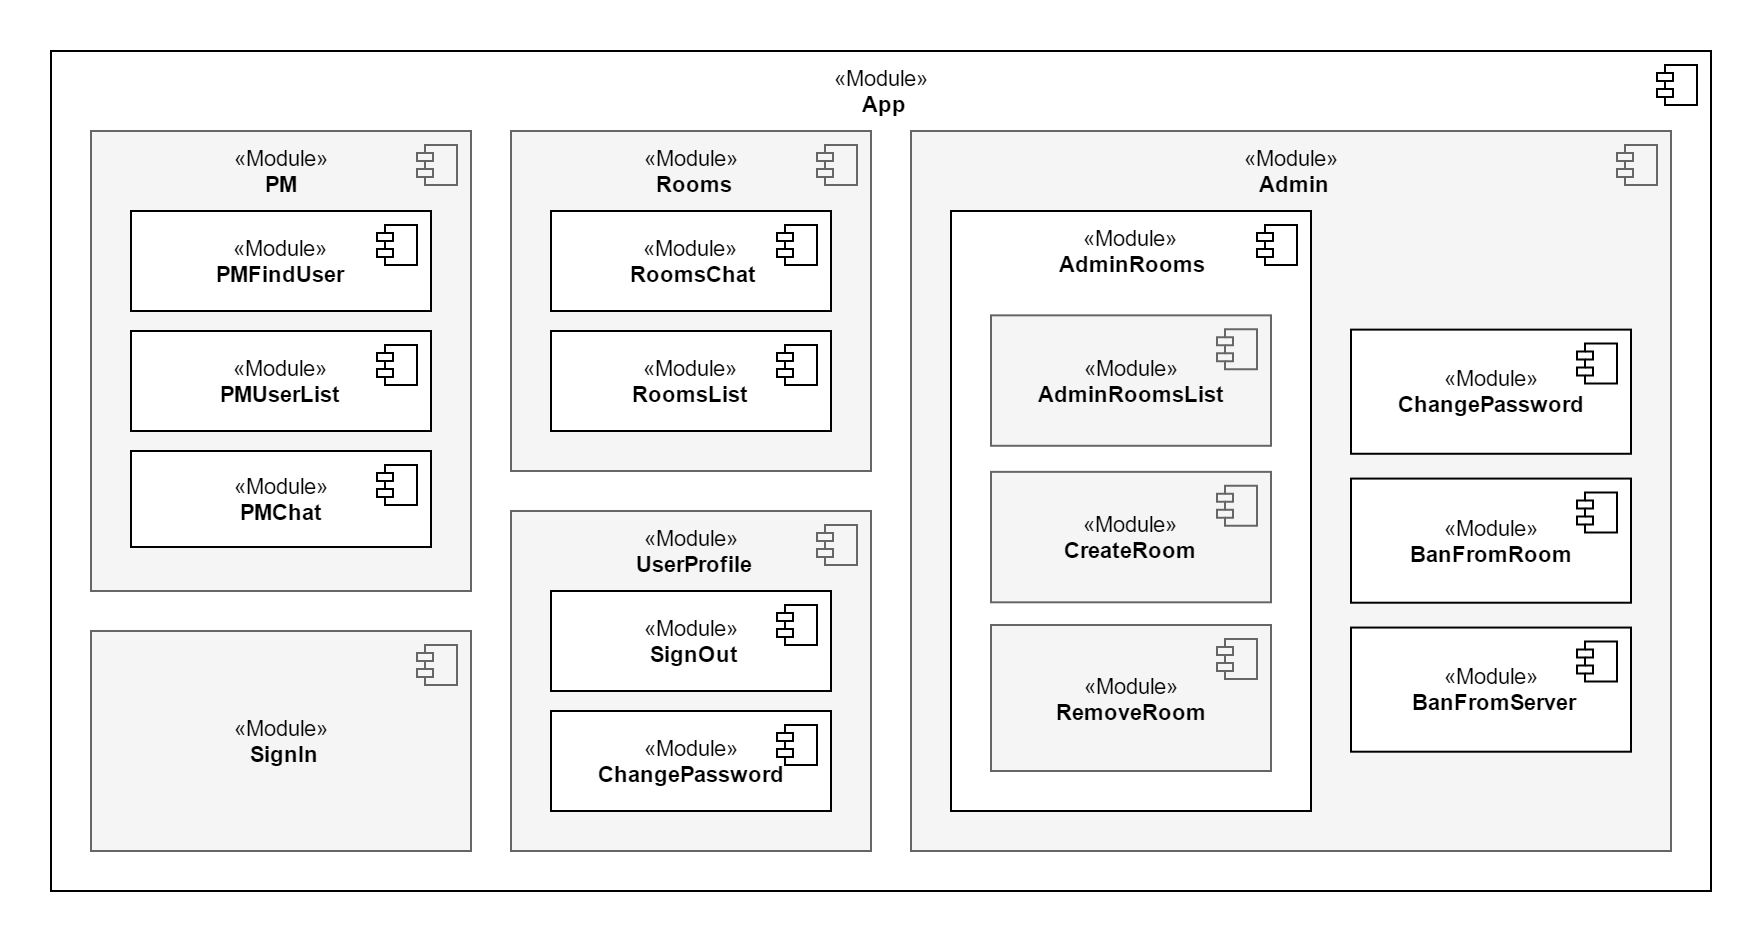
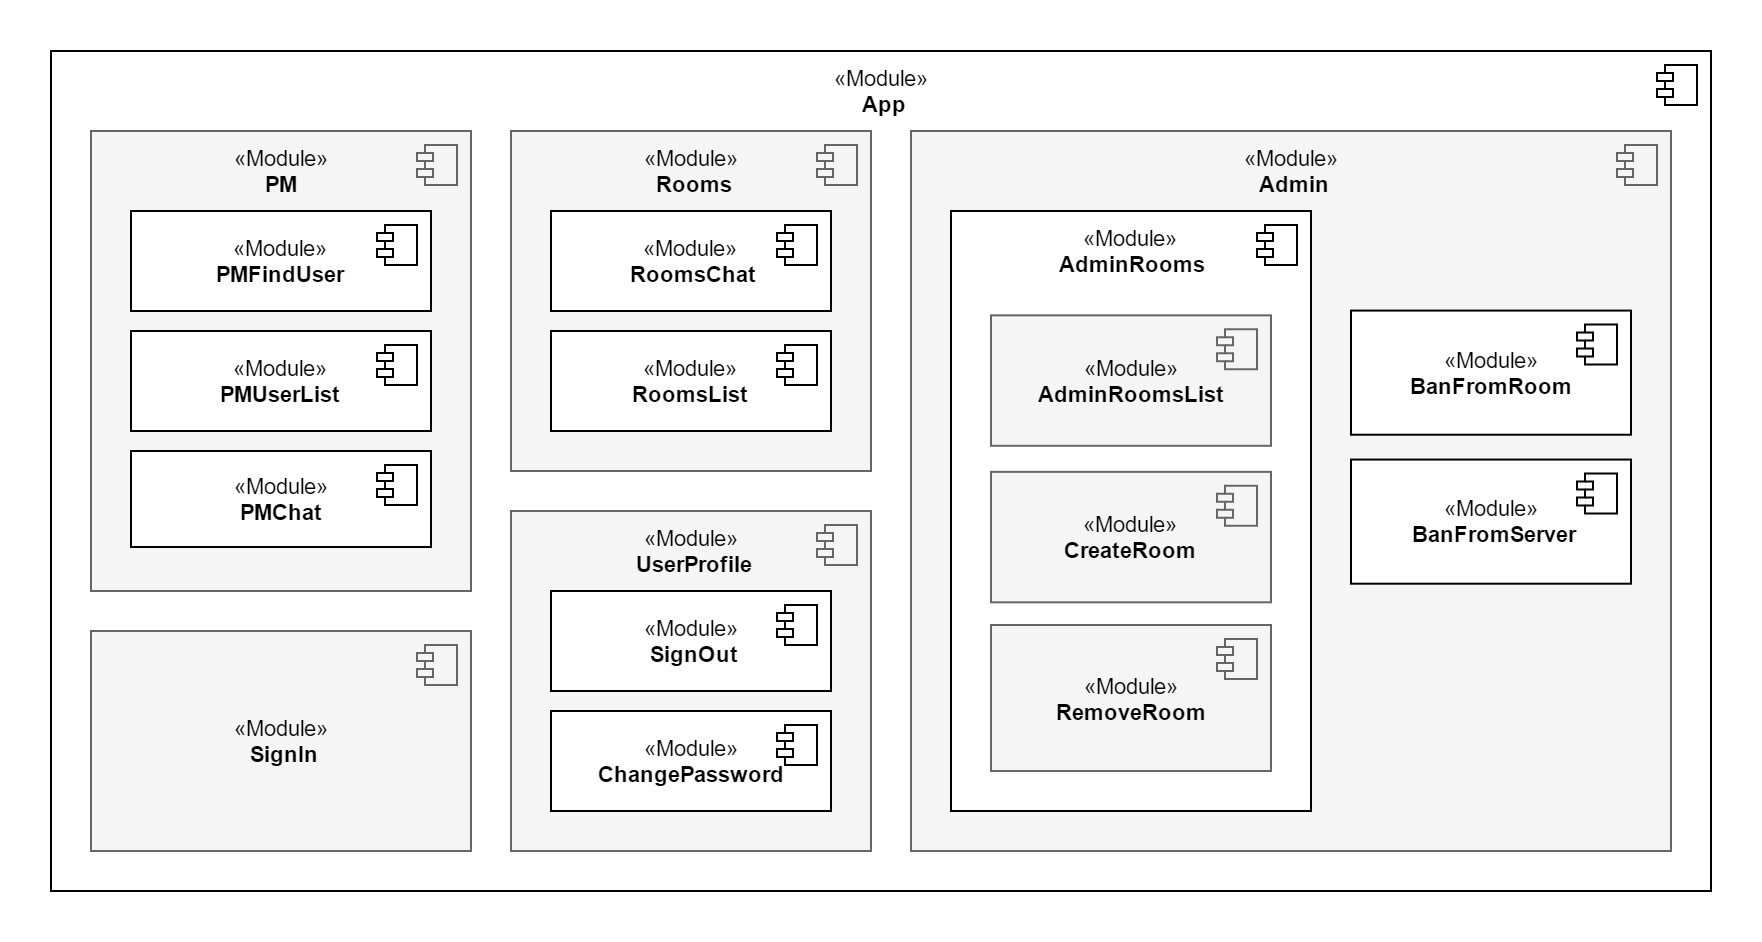
Dodanie opisów i aktualizacja doagramu modułów appki frontendu czatu

Changed region(s): [[0.7491, 0.3079, 0.9364, 0.7081], [0.7804, 0.7081, 0.9364, 0.8004]]

diff --git a/book/chat/ps.tex b/book/chat/ps.tex
@@ -121,6 +121,8 @@ siebie aktorów, ukazanych na rysunku \ref{diag-komp}
 
 \end{labeling}
 
+\newpage
+
 \subsubsection{Warstwa interfejsu użytkownika (,,frontend'')}
 Podczas pracy nad wartwą frontendu, zastosowano framework webowy Vue.js. Jedną
 z przyczyn dla tej decyzji jest możliwość zdekomponowania projektowanej aplikacji na mniejsze części, nazywane modułami (ang. \textit{modules}). Są one zorganizowane hierarchiczne. Każdy z modułów zawiera własny skrypt JavaScript, a także kod HTML i arkusz CSS. Powoduje to, że każdy z modułów jest niezależny od pozostałych i może realizować swoje zadania w pełni autonomicznie.
@@ -130,10 +132,33 @@ jest podstawowym sposobem na interakcję pomiędzy nimi, co jest zgodne z
 paradygmatem \textit{data driven application} (z ang. ,,aplikacja sterowana
 poprzez dane''). W podobny sposób następuje zmiana kodu HTML modułów. Zamiast
 zmieniać węzły DOM w sposób jawny poprzez skrypt, programista wskazuje w
-szablonie HTML te miejsca, które ulegają określonym przemianom wraz ze zmianą
-wewnętrznych parametrów modułu.
+szablonie HTML te miejsca, które ulegają określonym przemianom wraz ze
+zmian wewnętrznych parametrów modułu.
 
-W projekcie przewidziano zastosowanie modułów, przedstawionych na \ref{diag-komp-front}.
+Podstawowa struktura aplikacji frontendowej przewiduje podział na
+pięć części:
+\begin{itemize}
+	\item Część autoryzacyjna -- służy do nawiązania połączenia z
+	serwerem i rozpoczęcie sesji użytkownika.
+
+	\item Pokoje (publiczne) -- dostarcza listę ogólnodostępnych pokojów,
+	umożliwia podpięcie się wybranych z nich oraz prowadzenie rozmów z
+	innymi użytkownikami, którzy się do nich podpięli.
+
+	\item Wiadomości prywatne -- umożliwia nawiązywanie prywatnych
+	rozmów pomiędzy użytkownikami oraz wymianę wiadomości prywatnych.
+
+	\item Narzędzia administracyjne -- pozwalają administratorom
+	na dodawanie i usuwanie pokojów, wyrzucanie użytkowników z pokojów
+	i z serwera.
+
+	\item Profil użytkownika -- umożliwia podejrzenie informacji na
+	temat własnego konta, zmianę przez administratora swojego hasła
+	użytkownika oraz rozłączenie się z serwerem.
+
+\end{itemize}
+
+W projekcie przewidziano zastosowanie modułów, przedstawionych na rysunku \ref{diag-komp-front}.
 
 \nameref{diag-komp-front}.
 \begin{figure}[!htp]
@@ -143,7 +168,88 @@ W projekcie przewidziano zastosowanie modułów, przedstawionych na \ref{diag-ko
 	\label{diag-komp-front}
 \end{figure}
 
+\begin{labeling}{\texttt{UserProfile}}
 
+  \item[\texttt{App}] Nadrzędny moduł, istniejący przez cały czas użycia
+	instancji aplikacji. Obejmuje najbardziej zewnętrzne struktury HTML,
+	przechowuje podstawowy stan aplikacji (stan autoryzacji, nazwę
+	użytkownika, poziom uprawnień, gniazdo WebSocket dla połączeń
+	z wartwą backendu), a także zapewnia routing do głównych części
+	aplikacji - czyli modułu logowania, modułu pokojów (publicznych),
+	pokojów prywatnych wiadomości, profilu użytkownika i narzędzi
+	administracyjnych.
+
+	\item[\texttt{SignIn}] Moduł odpowiadający za początkową autoryzację
+	do serwera (potocznie znane jako ,,logowanie'').
+
+	\item[\texttt{Rooms}] Moduł reprezentuje część aplikacji poświęconą
+	ogólnodostępnym pokojom dla wspólnych konwersacji. Podlegają mu:
+
+	\begin{labeling}{\texttt{RoomsChat}}
+		\item[\texttt{RoomsChat}] Moduł odpowiedzialny \textit{stricte} za
+		okno czatu - wyświetlanie konwersacji oraz wysyłanie wiadomości
+		do pokoju.
+
+		\item[\texttt{RoomsList}] Moduł wyświetlający listę pokojów, a także
+		umożliwiający podpięcie się do wybranego z nich.
+
+	\end{labeling}
+
+	\item[\texttt{PM}] Moduł odwzorowujący całą część aplikacji poświęconą
+	wymianie pomiędzy użytkownikami wiadomości prywatnych. W jego skład
+	wchodzą:
+
+	\begin{labeling}{\texttt{PMUserList}}
+		\item[\texttt{PMFindUser}] Moduł, którego zadaniem jest odnalezienie
+		użytkowika, do którego ma zostać wysłana wiadomość prywatna
+
+		\item[\texttt{PMUserList}] Moduł obsługujący listę użytkowników,
+		którzy wcześniej otrzymali lub wysłali wiadomości prywatne.
+
+		\item[\texttt{PMChat}] Moduł odpowiedzialny za obsługę zasadniczego
+		okna czatu wiadomości prywatnych, pozwalającego wymieniać wiadomości
+		prywatne z jednym, wybranym użytkownikem.
+	\end{labeling}
+
+\item[\texttt{UserProfile}] Moduł pozwalający na podstawową kontrolę
+własnego profilu, w tym:
+
+\begin{labeling}{\texttt{ChangePassword}}
+	\item[\texttt{SignOut}] Moduł odpowiedzialny za zamknięcie sesji
+	użytkownika, rozłączenie z serwerem oraz powrót aplikacji do
+	stanu sprzed autoryzacji
+
+	\item[\texttt{ChangePassword}] Moduł mający umożliwiać administratorom
+	zmianę swoich własnych haseł
+
+\end{labeling}
+
+\item[\texttt{Admin}] Moduł obejmujący pod sobą wszystkie narzędzia
+administracyjne. W jego skład wchodzą:
+
+\begin{labeling}{\texttt{BanFromServer}}
+	\item[\texttt{AdminRooms}] Moduł do zarządzania ogólnodostępnymi
+	pokojami czatu, w tym:
+
+	\begin{labeling}{\texttt{AdminRoomsList}}
+		\item[\texttt{AdminRoomsList}] Moduł listy wszystkich ogólnodostępnych
+		pokojów z narzędziami do ich edycji
+
+		\item[\texttt{CreateRoom}] Moduł pozwalający na dodawanie pokojów
+		do serweru czatu
+
+		\item[\texttt{RemoveRoom}] Moduł pozwalający na usuwanie istniejących
+		pokojów z serwera
+	\end{labeling}
+
+	\item[\texttt{BanFromRoom}] Moduł służący do wyrzucania użytkowników
+	z pokojów, w których obecnie się znajdują.
+
+	\item[\texttt{BanFromServer}] Moduł pozwalający na wyrzucenie
+	użytkowników z serwera.
+\end{labeling}
+
+\end{labeling}
 \section{Decyzje projektowe}
 
 \subsection{Środowisko docelowe}
